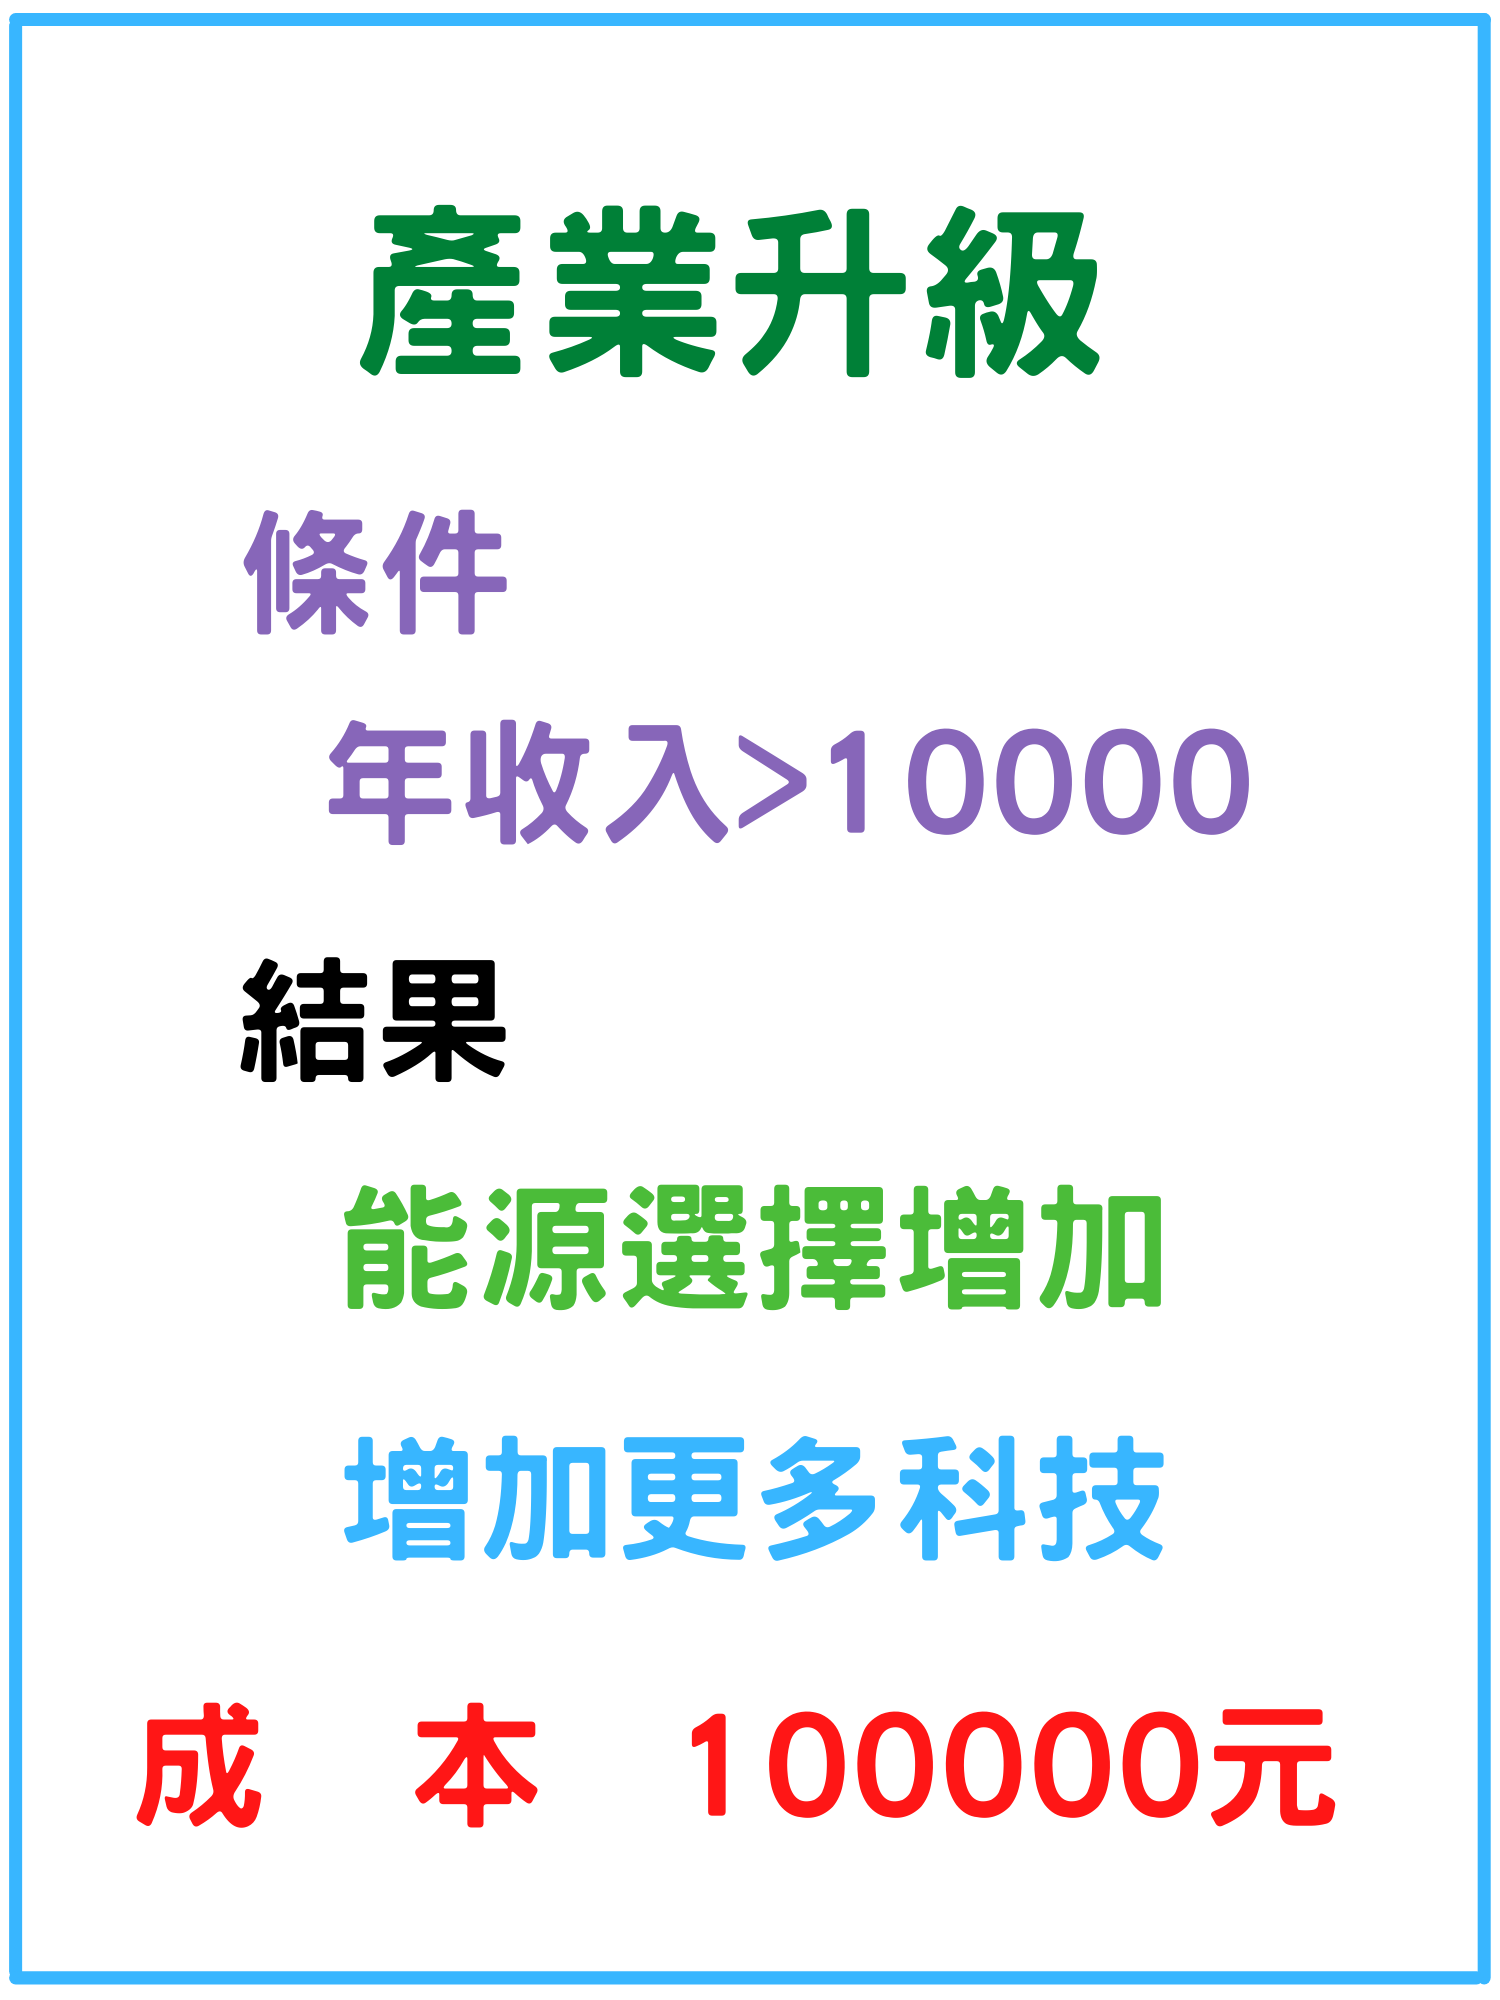
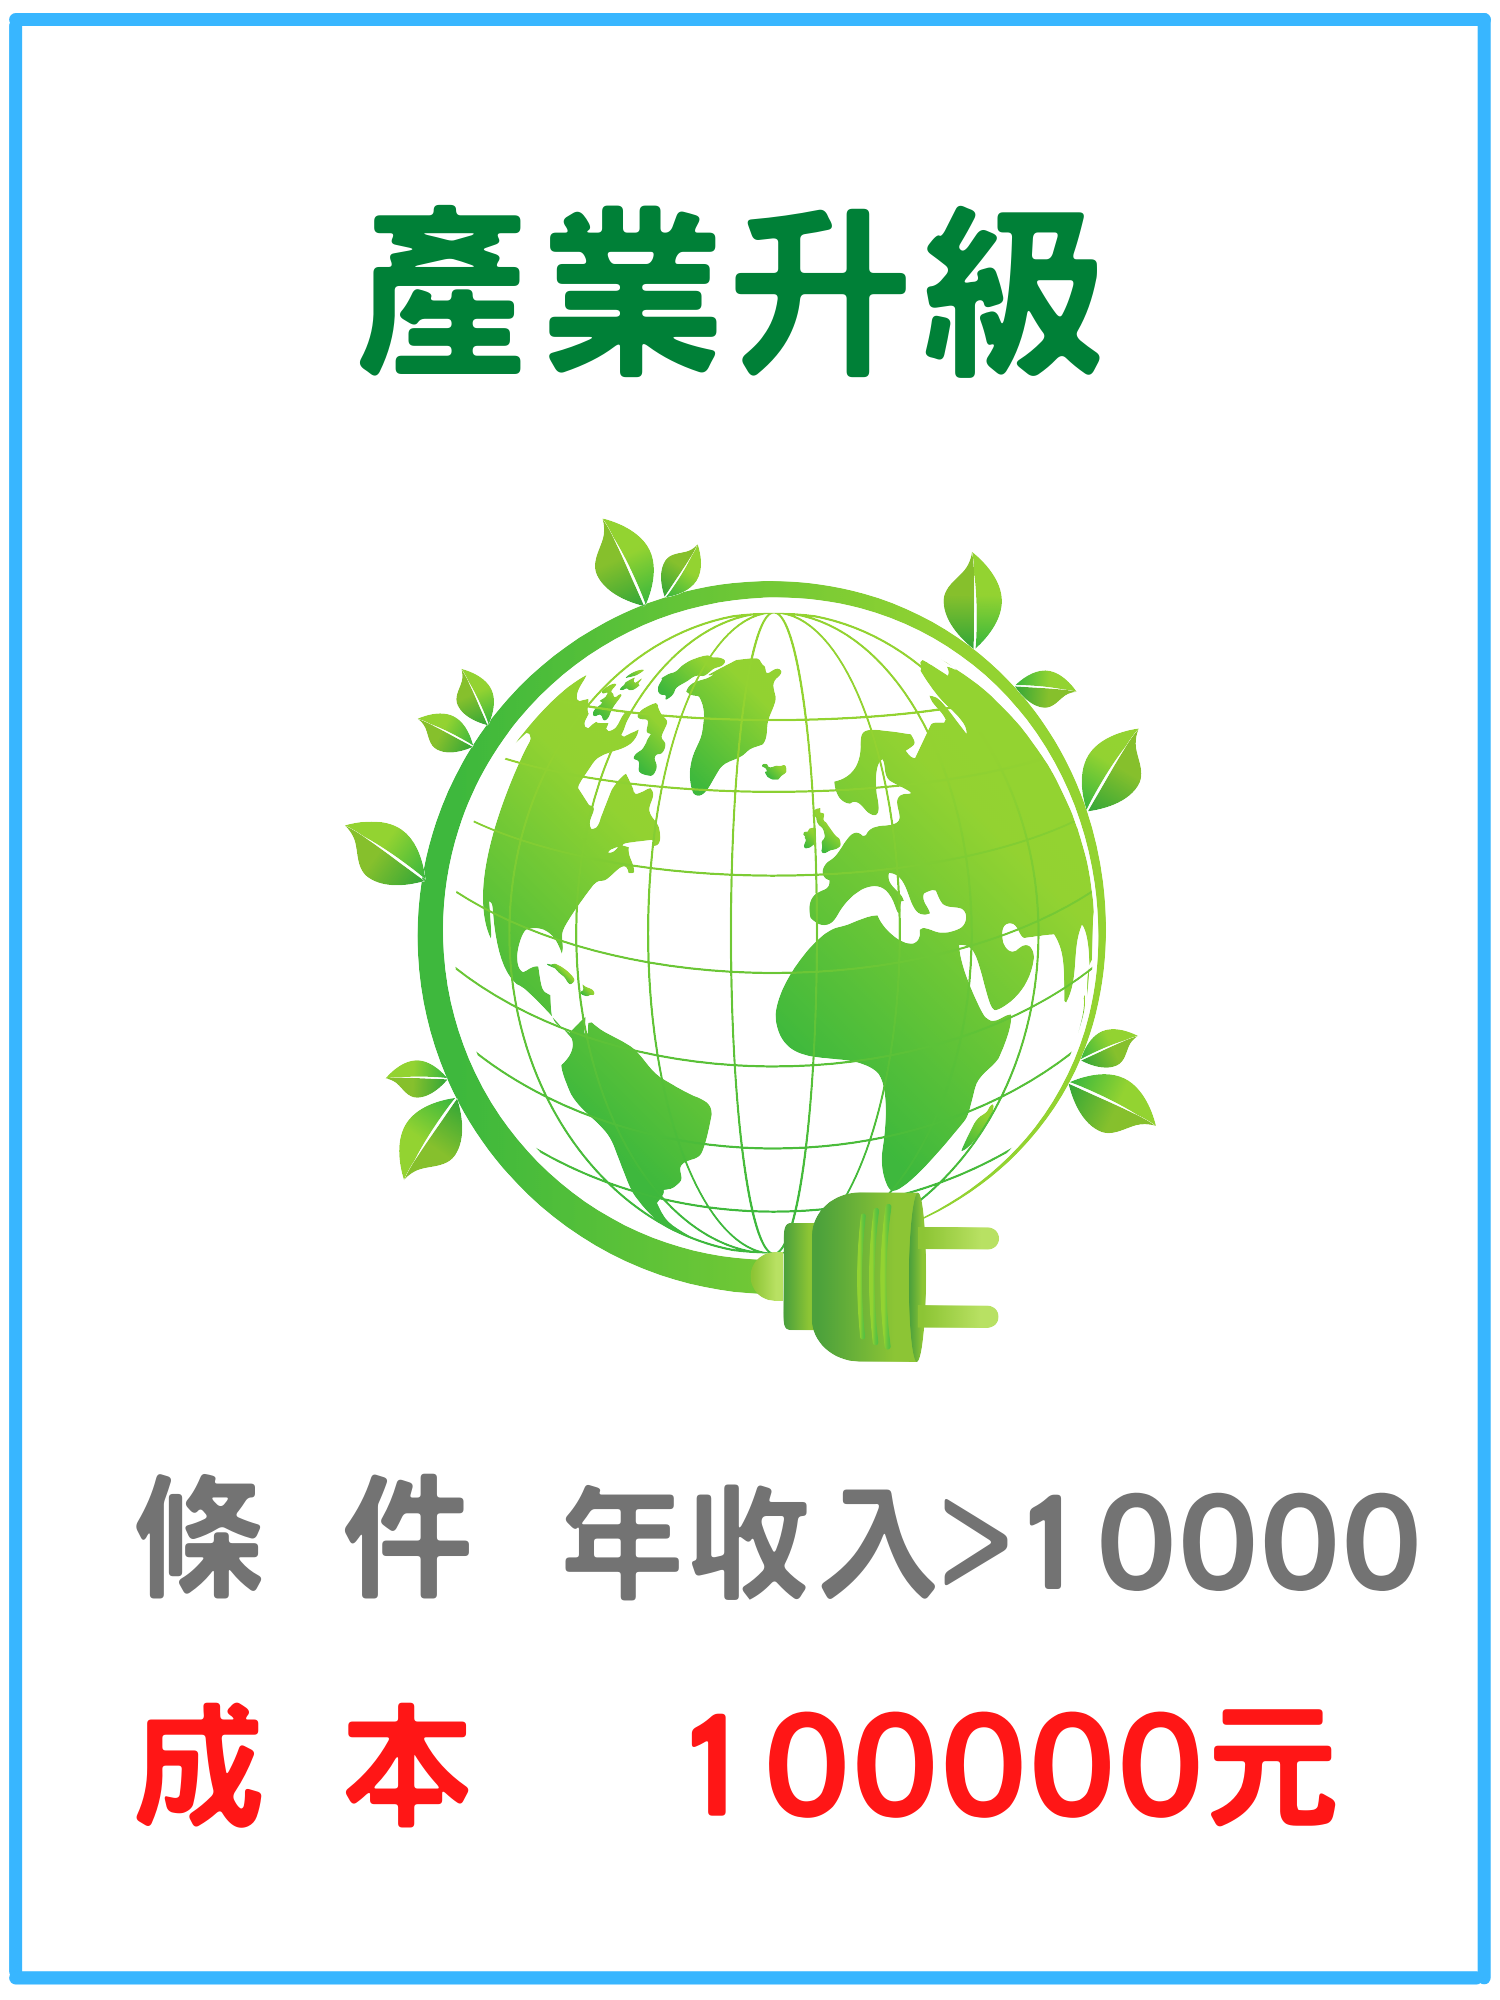
Add files via upload

diff --git a/index.html b/index.html
@@ -506,9 +506,23 @@ function png16(){
     document.getElementById("png18").style.display='';
     document.getElementById("png19").style.display='';
     document.getElementById("png20").style.display='';
-   
 
-    alert("恭喜產業升級，有新的能源和技術可以選擇");
+    document.getElementById("playBoard").style.display='none';
+    document.getElementById("story").style.display='';
+    document.getElementById("storyImg").src="story21.jpg";
+    si=1;
+    document.getElementById("storynextBtn").style.visibility='visible';
+    document.getElementById("storybackBtn").style.visibility='hidden';
+    document.getElementById("startgame").style.display='none';
+
+
+
+    document.getElementById("carbontitle").style.visibility='visible';
+    document.getElementById("carbonnumber").style.visibility='visible';
+    
+    
+
+   
 
 	document.getElementById("totalMoney").innerHTML=totalMoney+" 元";
     }else{
@@ -699,9 +713,30 @@ function send(){
 
 
      };
-    };
+    }else if(level==3) {
+
+	 si=si+1;
+     if(si==2){
+       document.getElementById("storyImg").src="story22.jpg";
+       
+       document.getElementById("storybackBtn").style.visibility='visible';
+     }else if(si==3){
+       document.getElementById("storyImg").src="story23.jpg";
+     }else if(si==4){
+       document.getElementById("storyImg").src="story24.jpg";
+     }else if(si==5){
+       document.getElementById("storyImg").src="story25.jpg";
+     }else if(si==6){
+       document.getElementById("storyImg").src="story26.jpg";
+       document.getElementById("storynextBtn").style.visibility='hidden';
+           document.getElementById("startgame").style.display=''
+
+
+     };
 
     };
+    }
+
       
         function back(){
 
@@ -742,7 +777,33 @@ function send(){
 
  	};
 
-    };
+    }else if (level==3) {
+
+ 		si=si-1;
+     if(si==2){
+       document.getElementById("storyImg").src="story22.jpg";
+     }else if(si==3){
+       document.getElementById("storyImg").src="story23.jpg";
+
+     }else if(si==4){
+       document.getElementById("storyImg").src="story24.jpg";
+
+     }else if(si==5){
+       document.getElementById("storyImg").src="story25.jpg";
+
+       document.getElementById("storynextBtn").style.visibility='visible';
+       document.getElementById("startgame").style.display='none'
+
+       
+     }else if(si==1){
+       document.getElementById("storyImg").src="story21.jpg";
+       
+       document.getElementById("storybackBtn").style.visibility='hidden';
+
+
+ 	};
+
+    }
 	}
 
 
